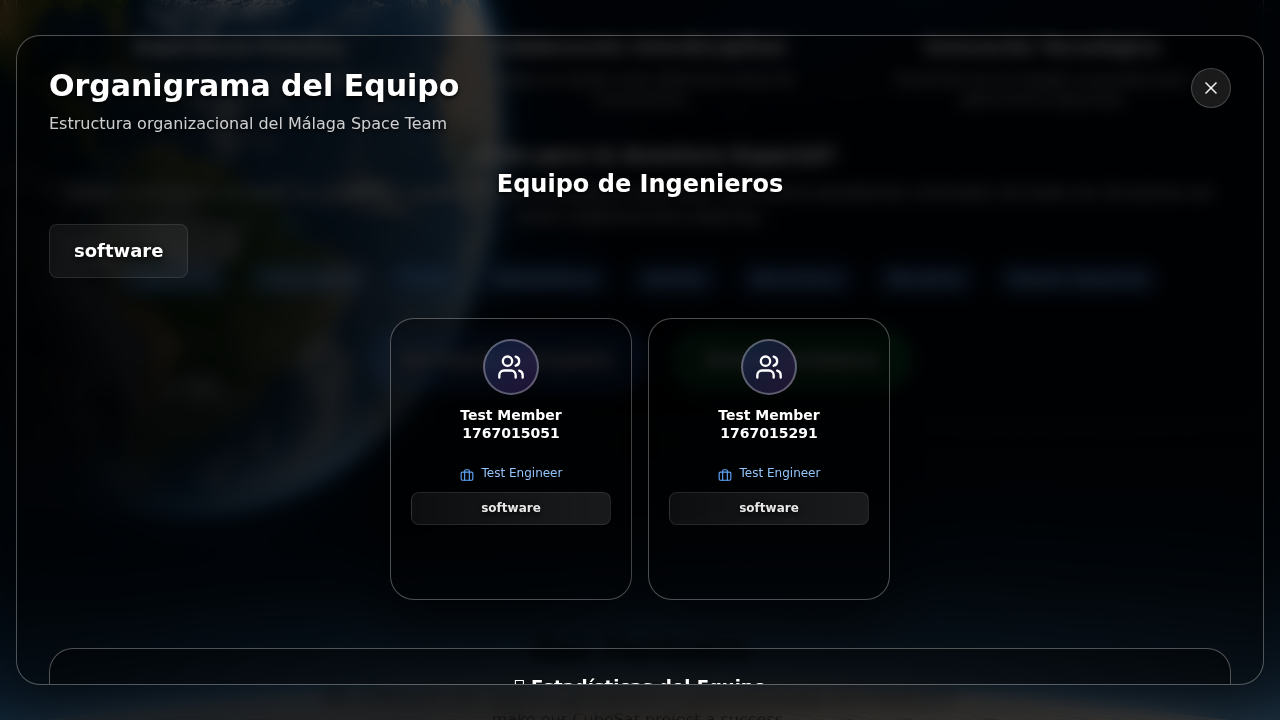
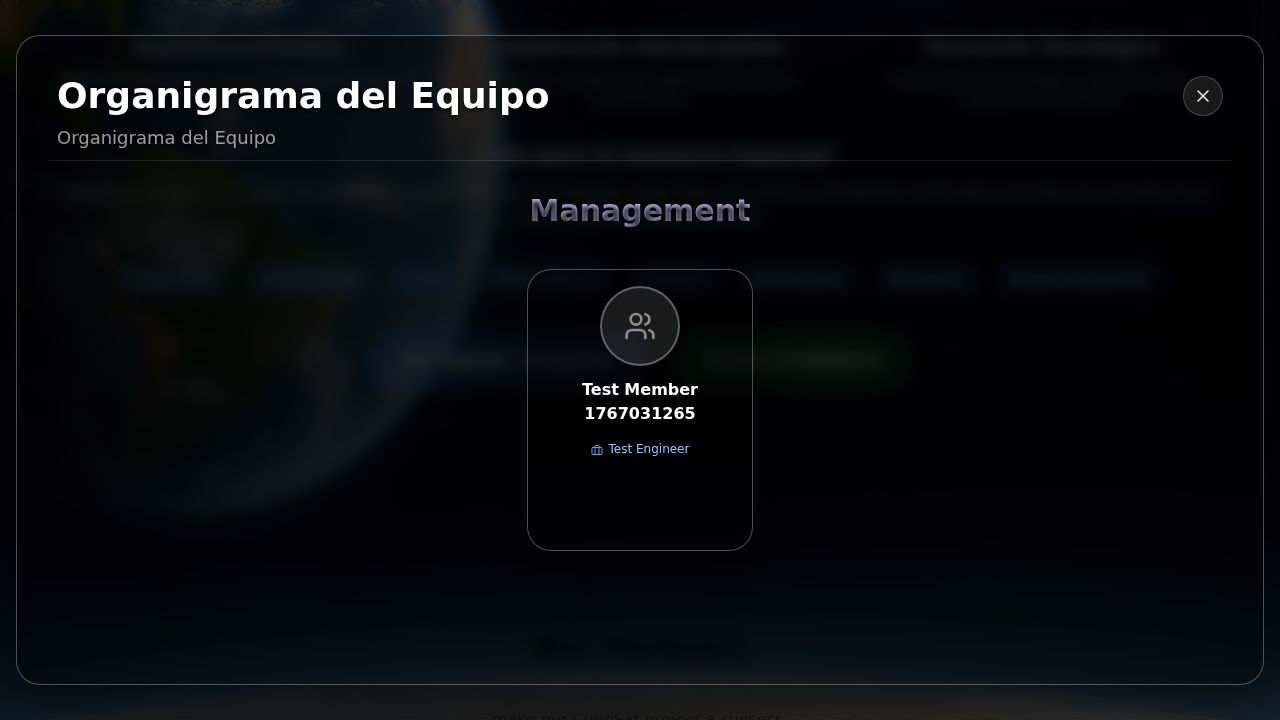
Fix profile image upload and improve Team UI
- Configured shared volume for uploads in `docker-compose.yml` to allow Frontend (Nginx) to serve files uploaded by Backend (Flask).
- Improved `TeamTreeModal` styling: removed sticky header to fix layout issues, refined title typography with gradients.
- Verified end-to-end functionality including User Profile editing and Team Member linking.

diff --git a/src/components/TeamTreeModal.tsx b/src/components/TeamTreeModal.tsx
@@ -119,7 +119,7 @@ export const TeamTreeModal: React.FC<TeamTreeModalProps> = ({ isOpen, onClose })
   };
 
   const SectionTitle: React.FC<{ children: React.ReactNode }> = ({ children }) => (
-    <h3 className="text-xl md:text-2xl font-bold text-white mb-8 text-center drop-shadow-lg border-b border-white/10 pb-4 inline-block px-12">
+    <h3 className="text-xl md:text-3xl font-bold text-transparent bg-clip-text bg-gradient-to-r from-blue-200 to-purple-300 mb-10 text-center drop-shadow-sm">
       {children}
     </h3>
   );
@@ -138,22 +138,22 @@ export const TeamTreeModal: React.FC<TeamTreeModalProps> = ({ isOpen, onClose })
       <div className="absolute inset-0 bg-black/60 backdrop-blur-sm" onClick={handleClose}></div>
       
       <GlassContainer className={`modal-glass w-full max-w-7xl max-h-[95vh] mx-2 overflow-hidden ${isClosing ? 'modal-exit' : ''}`}>
-        <div className="modal-content-wrapper p-6 lg:p-8 max-h-[90vh] overflow-y-auto custom-scrollbar">
+        <div className="modal-content-wrapper p-6 lg:p-8 max-h-[90vh] overflow-y-auto custom-scrollbar relative">
           {/* Header */}
-          <div className="flex justify-between items-start mb-8 sticky top-0 bg-slate-900/80 backdrop-blur-md z-10 p-4 -mx-4 -mt-4 border-b border-white/10">
+          <div className="flex justify-between items-start mb-8 p-2 border-b border-white/10">
             <div>
-              <h2 className="text-2xl md:text-3xl font-bold text-white drop-shadow-lg mb-1">
+              <h2 className="text-3xl md:text-4xl font-bold text-white drop-shadow-lg mb-2">
                 {t('team.treeModal.title')}
               </h2>
-              <p className="text-white/60 text-sm">
+              <p className="text-white/60 text-lg">
                 Organigrama del Equipo
               </p>
             </div>
             <button 
               onClick={handleClose}
-              className="w-8 h-8 flex items-center justify-center rounded-full bg-white/10 hover:bg-white/20 transition-colors border border-white/20 backdrop-blur-sm"
+              className="w-10 h-10 flex items-center justify-center rounded-full bg-white/10 hover:bg-white/20 transition-colors border border-white/20 backdrop-blur-sm"
             >
-              <X className="w-4 h-4 text-white/90" />
+              <X className="w-5 h-5 text-white/90" />
             </button>
           </div>
           
